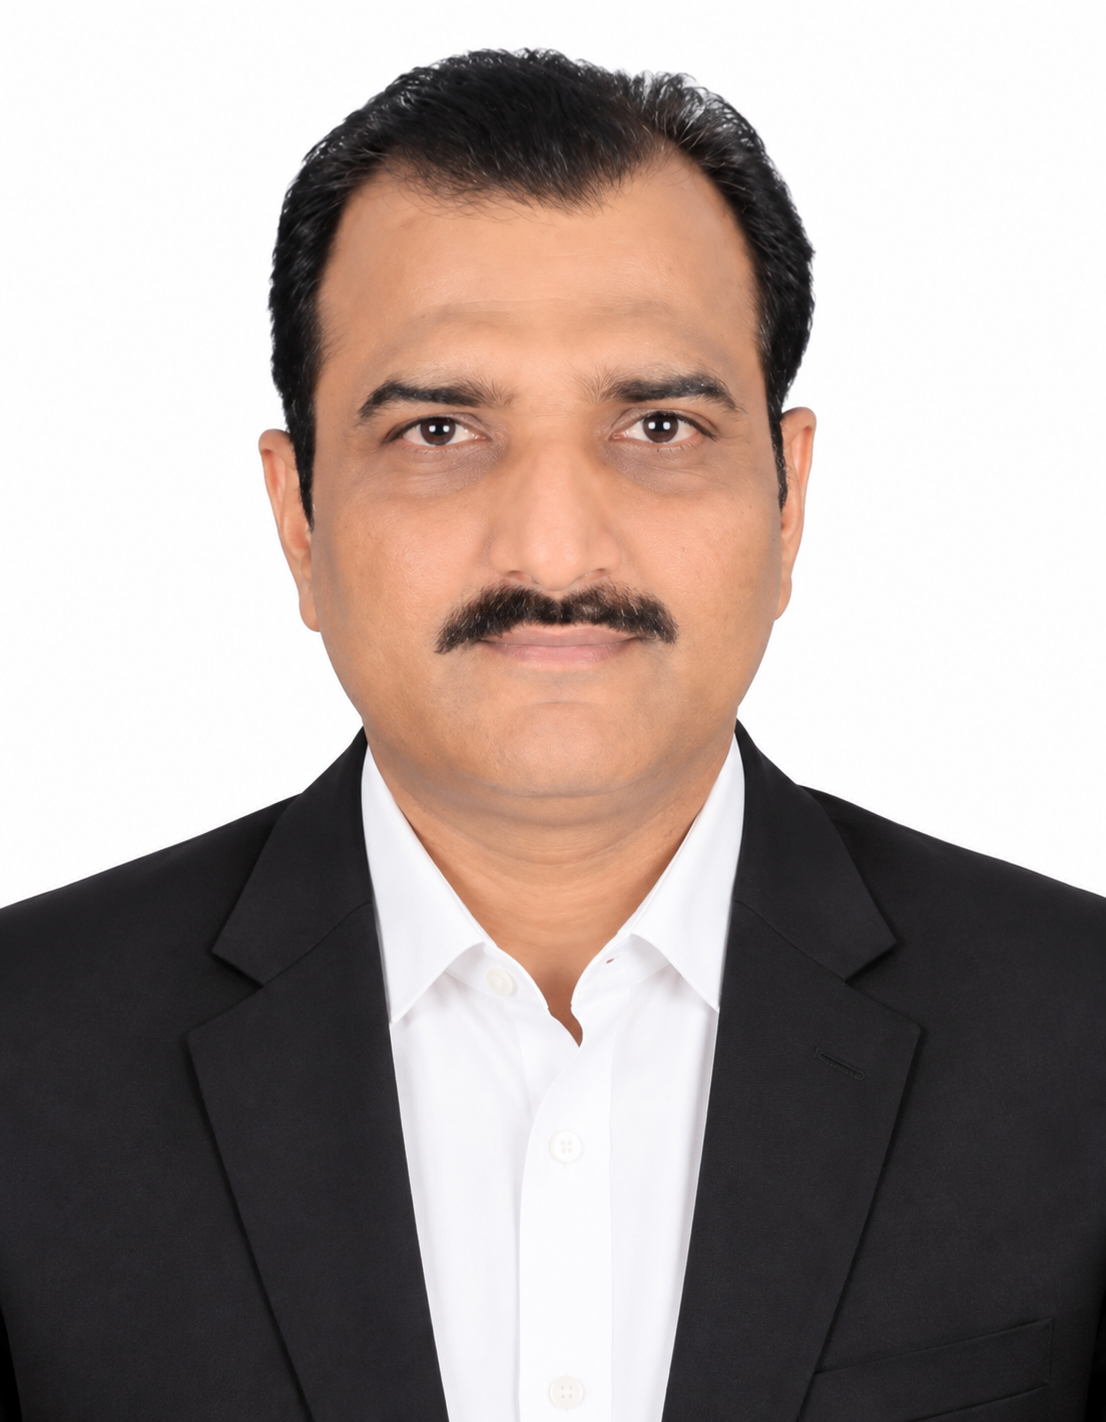
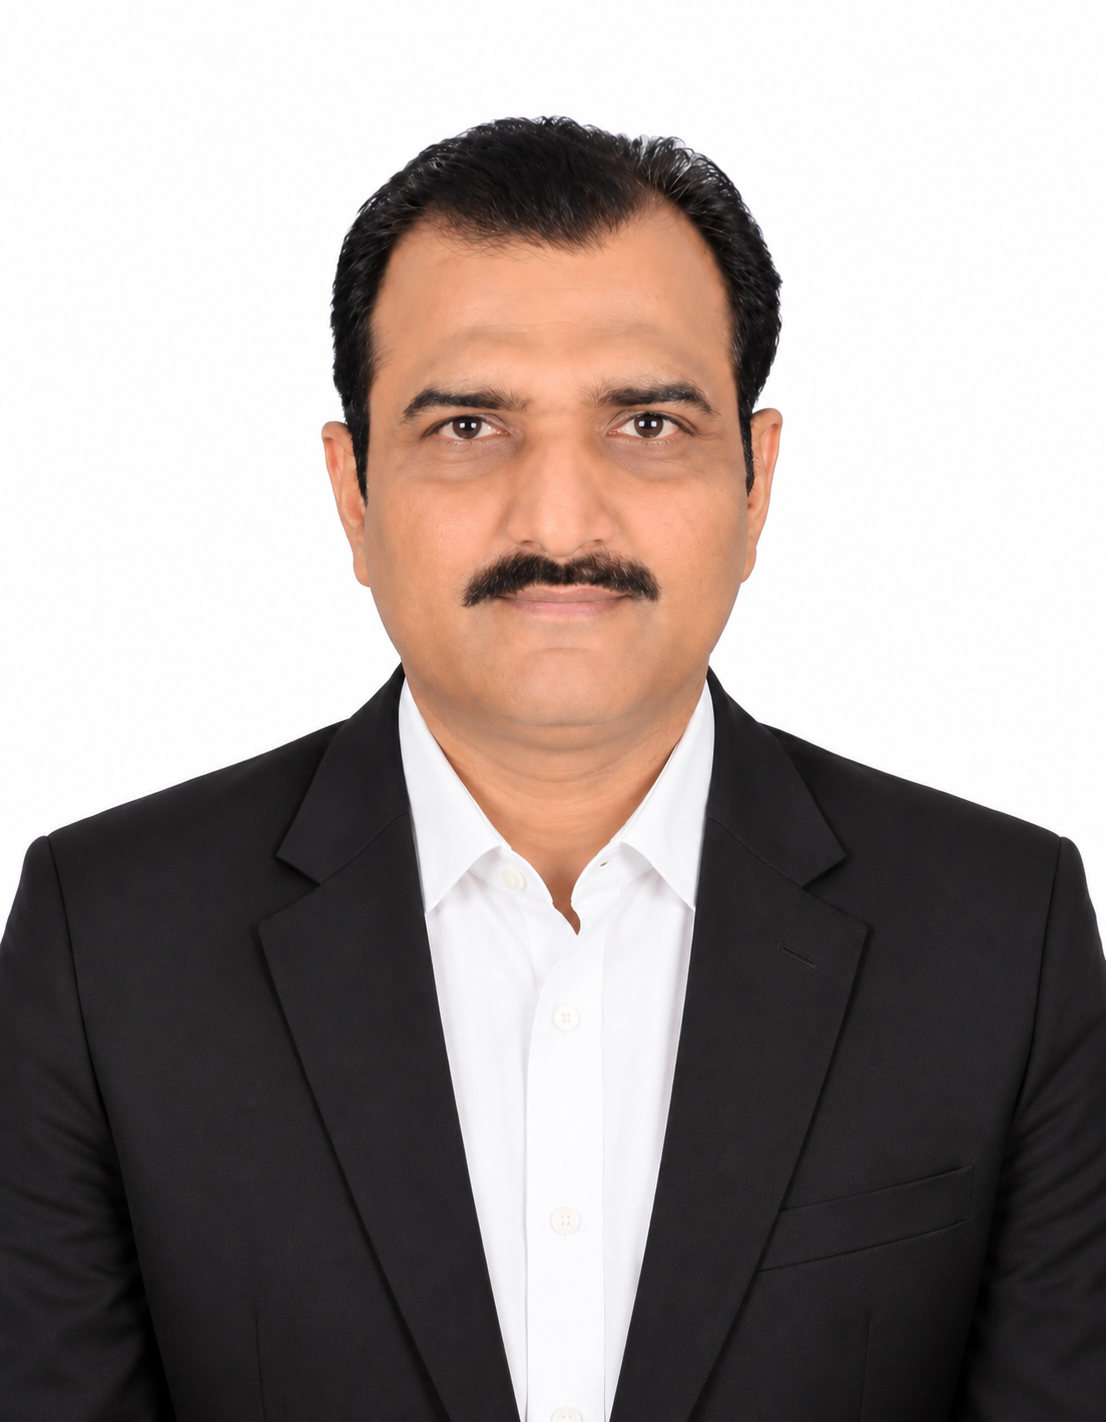
All files update

diff --git a/src/routes/contact.tsx b/src/routes/contact.tsx
@@ -3,6 +3,8 @@ import { Header } from "@/components/Header";
 import { Footer } from "@/components/Footer";
 import { CustomCursor } from "@/components/CustomCursor";
 import { useLenis, useReveals } from "@/hooks/useScrollSetup";
+import { useState } from "react";
+import { createServerFn } from "@tanstack/react-start";
 
 export const Route = createFileRoute("/contact")({
   head: () => ({
@@ -13,6 +15,34 @@ export const Route = createFileRoute("/contact")({
   }),
   component: ContactPage,
 });
+
+const sendContactEmail = createServerFn({ method: "POST" })
+  .validator((d: any) => d as { firstName: string; lastName: string; email: string; org: string; type: string; message: string; })
+  .handler(async ({ data }) => {
+    const nodemailer = (await import("nodemailer")).default;
+    const transporter = nodemailer.createTransport({
+      host: "mail.powertwinx.com",
+      port: 465,
+      secure: true,
+      auth: {
+        user: "info@powertwinx.com",
+        pass: "MailPower@2026",
+      },
+    });
+
+    try {
+      await transporter.sendMail({
+        from: '"PowerTwinX Leads" <info@powertwinx.com>',
+        to: "info@powertwinx.com",
+        subject: `New Lead: ${data.type} from ${data.firstName} ${data.lastName}`,
+        text: `Name: ${data.firstName} ${data.lastName}\nEmail: ${data.email}\nOrganization: ${data.org}\nInquiry Type: ${data.type}\n\nMessage:\n${data.message}`,
+      });
+      return { success: true };
+    } catch (error: any) {
+      console.error("Mail Error:", error);
+      return { success: false, error: error.message };
+    }
+  });
 
 function Section({ children, className = "" }: { children: React.ReactNode; className?: string }) {
   return (
@@ -34,6 +64,27 @@ function Eyebrow({ children }: { children: React.ReactNode }) {
 export function ContactPage() {
   useLenis();
   useReveals();
+
+  const [formData, setFormData] = useState({
+    firstName: "", lastName: "", email: "", org: "", type: "Request a Demo / Book Consultation", message: ""
+  });
+  const [status, setStatus] = useState<"idle" | "loading" | "success" | "error">("idle");
+
+  const handleSubmit = async (e: React.FormEvent) => {
+    e.preventDefault();
+    setStatus("loading");
+    try {
+      const res = await sendContactEmail({ data: formData });
+      if (res.success) {
+        setStatus("success");
+        setFormData({ firstName: "", lastName: "", email: "", org: "", type: "Request a Demo / Book Consultation", message: "" });
+      } else {
+        setStatus("error");
+      }
+    } catch {
+      setStatus("error");
+    }
+  };
 
   return (
     <main className="relative min-h-screen flex flex-col overflow-clip bg-background font-sans">
@@ -60,28 +111,28 @@ export function ContactPage() {
               {/* Contact Form */}
               <div className="reveal">
                   <h3 className="text-2xl font-medium mb-6">Send us a message or Book a Consultation</h3>
-                  <form className="space-y-6" onSubmit={e => e.preventDefault()}>
+                  <form className="space-y-6" onSubmit={handleSubmit}>
                       <div className="grid grid-cols-2 gap-6">
                           <div className="space-y-2">
                               <label className="text-sm font-medium text-foreground">First Name</label>
-                              <input type="text" className="w-full bg-surface/50 border border-border rounded-lg px-4 py-3 focus:outline-none focus:border-volt/50 transition-colors" placeholder="John" />
+                              <input required value={formData.firstName} onChange={e => setFormData({...formData, firstName: e.target.value})} type="text" className="w-full bg-surface/50 border border-border rounded-lg px-4 py-3 focus:outline-none focus:border-volt/50 transition-colors" placeholder="John" />
                           </div>
                           <div className="space-y-2">
                               <label className="text-sm font-medium text-foreground">Last Name</label>
-                              <input type="text" className="w-full bg-surface/50 border border-border rounded-lg px-4 py-3 focus:outline-none focus:border-volt/50 transition-colors" placeholder="Doe" />
+                              <input required value={formData.lastName} onChange={e => setFormData({...formData, lastName: e.target.value})} type="text" className="w-full bg-surface/50 border border-border rounded-lg px-4 py-3 focus:outline-none focus:border-volt/50 transition-colors" placeholder="Doe" />
                           </div>
                       </div>
                       <div className="space-y-2">
                           <label className="text-sm font-medium text-foreground">Work Email</label>
-                          <input type="email" className="w-full bg-surface/50 border border-border rounded-lg px-4 py-3 focus:outline-none focus:border-volt/50 transition-colors" placeholder="john@utility.com" />
+                          <input required value={formData.email} onChange={e => setFormData({...formData, email: e.target.value})} type="email" className="w-full bg-surface/50 border border-border rounded-lg px-4 py-3 focus:outline-none focus:border-volt/50 transition-colors" placeholder="john@utility.com" />
                       </div>
                       <div className="space-y-2">
                           <label className="text-sm font-medium text-foreground">Organization / Utility Name</label>
-                          <input type="text" className="w-full bg-surface/50 border border-border rounded-lg px-4 py-3 focus:outline-none focus:border-volt/50 transition-colors" placeholder="National Grid" />
+                          <input required value={formData.org} onChange={e => setFormData({...formData, org: e.target.value})} type="text" className="w-full bg-surface/50 border border-border rounded-lg px-4 py-3 focus:outline-none focus:border-volt/50 transition-colors" placeholder="National Grid" />
                       </div>
                       <div className="space-y-2">
                           <label className="text-sm font-medium text-foreground">Inquiry Type</label>
-                          <select className="w-full bg-surface/50 border border-border rounded-lg px-4 py-3 focus:outline-none focus:border-volt/50 transition-colors text-foreground appearance-none">
+                          <select value={formData.type} onChange={e => setFormData({...formData, type: e.target.value})} className="w-full bg-surface/50 border border-border rounded-lg px-4 py-3 focus:outline-none focus:border-volt/50 transition-colors text-foreground appearance-none">
                               <option>Request a Demo / Book Consultation</option>
                               <option>Technical Partnership</option>
                               <option>Media Inquiry</option>
@@ -90,11 +141,12 @@ export function ContactPage() {
                       </div>
                       <div className="space-y-2">
                           <label className="text-sm font-medium text-foreground">Message</label>
-                          <textarea rows={4} className="w-full bg-surface/50 border border-border rounded-lg px-4 py-3 focus:outline-none focus:border-volt/50 transition-colors resize-none" placeholder="How can we help you?"></textarea>
+                          <textarea required value={formData.message} onChange={e => setFormData({...formData, message: e.target.value})} rows={4} className="w-full bg-surface/50 border border-border rounded-lg px-4 py-3 focus:outline-none focus:border-volt/50 transition-colors resize-none" placeholder="How can we help you?"></textarea>
                       </div>
-                      <button className="rounded-full bg-primary px-8 py-3 w-full sm:w-auto text-sm font-medium text-primary-foreground hover:bg-primary/90 transition-colors">
-                          Submit Request
+                      <button disabled={status === "loading"} className="rounded-full bg-primary px-8 py-3 w-full sm:w-auto text-sm font-medium text-primary-foreground hover:bg-primary/90 transition-colors disabled:opacity-50">
+                          {status === "loading" ? "Sending..." : status === "success" ? "Message Sent!" : "Submit Request"}
                       </button>
+                      {status === "error" && <p className="text-red-500 text-sm mt-2">There was an error sending your message. Please try again.</p>}
                   </form>
               </div>
 

diff --git a/src/components/Header.tsx b/src/components/Header.tsx
@@ -1,23 +1,53 @@
 import { Link } from "@tanstack/react-router";
+import { Menu, X } from "lucide-react";
+import { useState } from "react";
 
 export function Header() {
+  const [menuOpen, setMenuOpen] = useState(false);
+
   return (
     <header className="fixed left-1/2 top-5 z-50 flex w-[min(96%,80rem)] -translate-x-1/2 items-center justify-between rounded-full border border-border bg-black text-white px-5 py-3 backdrop-blur-xl">
-      <img src="/logo-hr.png" alt="PowerTwinX" className="h-10 px-2" />
-      <nav className="hidden gap-6 text-sm text-white/70 md:flex">
+      <Link to="/" className="flex items-center">
+         <img src="/logo-hr.png" alt="PowerTwinX" className="h-8 md:h-10 px-2" />
+      </Link>
+      
+      <nav className="hidden md:flex items-center gap-6 text-sm text-white/70">
         <Link to="/" className="transition-colors hover:text-white [&.active]:text-white">Home</Link>
         <Link to="/about" className="transition-colors hover:text-white [&.active]:text-white">About Us</Link>
         <Link to="/case-studies" className="transition-colors hover:text-white [&.active]:text-white">Case Studies</Link>
         <Link to="/contact" className="transition-colors hover:text-white [&.active]:text-white">Contact</Link>
-      </nav>
-      <div className="flex items-center gap-3">
         <Link
           to="/demo"
-          className="rounded-full bg-white px-5 py-2 text-xs font-medium text-black shadow-[var(--shadow-soft)] hover:-translate-y-0.5 transition-transform hover:bg-gray-100"
+          className="ml-4 rounded-full bg-white px-5 py-2 text-xs font-medium text-black shadow-[var(--shadow-soft)] hover:-translate-y-0.5 transition-transform hover:bg-gray-100"
         >
           Request Demo
         </Link>
-      </div>
+      </nav>
+
+      <button 
+        className="md:hidden p-2 text-white outline-none"
+        onClick={() => setMenuOpen(!menuOpen)}
+      >
+        {menuOpen ? <X className="w-5 h-5" /> : <Menu className="w-5 h-5" />}
+      </button>
+
+      {menuOpen && (
+        <div className="absolute top-[120%] left-0 w-full bg-black/95 backdrop-blur-xl border border-border/50 rounded-2xl p-6 flex flex-col gap-6 shadow-xl md:hidden origin-top animate-reveal">
+            <Link onClick={() => setMenuOpen(false)} to="/" className="text-white hover:text-volt text-lg font-medium">Home</Link>
+            <Link onClick={() => setMenuOpen(false)} to="/about" className="text-white hover:text-volt text-lg font-medium">About Us</Link>
+            <Link onClick={() => setMenuOpen(false)} to="/case-studies" className="text-white hover:text-volt text-lg font-medium">Case Studies</Link>
+            <Link onClick={() => setMenuOpen(false)} to="/contact" className="text-white hover:text-volt text-lg font-medium">Contact</Link>
+            <div className="pt-4 border-t border-white/10">
+              <Link
+                onClick={() => setMenuOpen(false)}
+                to="/demo"
+                className="w-full inline-block text-center rounded-full bg-white px-5 py-3 text-sm font-medium text-black"
+              >
+                Request Demo
+              </Link>
+            </div>
+        </div>
+      )}
     </header>
   );
 }

diff --git a/src/routes/index.tsx b/src/routes/index.tsx
@@ -24,10 +24,10 @@ export const Route = createFileRoute("/")({
 });
 
 const stats = [
-  { k: "1.2M", l: "Sensor points streamed per minute" },
-  { k: "99.98%", l: "Simulation-to-field accuracy" },
-  { k: "<40ms", l: "Twin state refresh latency" },
-  { k: "18%", l: "Average loss reduction" },
+  { k: "24×7", l: "digital visibility" },
+  { k: "100%", l: "digitally identified assets" },
+  { k: "75%+", l: "faster action on customer side" },
+  { k: "75%+", l: "Manual or Unwanted loss cover Minimum" },
 ];
 
 const faqs = [
@@ -59,7 +59,7 @@ function Section({
   id?: string;
 }) {
   return (
-    <section id={id} className={cn("relative z-10 mx-auto w-full max-w-6xl px-6 py-28 md:py-40", className)}>
+    <section id={id} className={cn("relative z-10 mx-auto w-full max-w-[80rem] w-[min(94%,80rem)] py-28 md:py-40", className)}>
       {children}
     </section>
   );
@@ -141,9 +141,9 @@ function AnimatedLines() {
 
 function PlatformCard({ num, title, highlight, desc, icon: Icon }: { num: string, title: string, highlight: string, desc: string, icon: any }) {
   return (
-    <div className="card-soft reveal group flex items-center gap-4 p-5 hover:border-volt/30 transition-all bg-black/90 backdrop-blur-md relative z-10 w-full sm:w-[300px]">
-      <div className="flex h-14 w-14 shrink-0 items-center justify-center rounded-full bg-background border border-border shadow-sm group-hover:border-volt/50 transition-colors duration-500">
-        <Icon className="h-6 w-6 text-foreground group-hover:text-volt transition-colors" />
+    <div className="card-soft reveal group flex flex-col md:flex-row items-start md:items-center gap-4 p-5 md:p-6 hover:border-volt/30 transition-all bg-black/90 backdrop-blur-md relative z-10 w-full sm:w-[320px]">
+      <div className="flex h-12 w-12 md:h-14 md:w-14 shrink-0 items-center justify-center rounded-full bg-background border border-border shadow-sm group-hover:border-volt/50 transition-colors duration-500">
+        <Icon className="h-5 w-5 md:h-6 md:w-6 text-foreground group-hover:text-volt transition-colors" />
       </div>
       <div>
         {/* <div className="text-xs font-semibold tracking-wider text-white">{num}</div> */}
@@ -158,11 +158,12 @@ function PlatformCard({ num, title, highlight, desc, icon: Icon }: { num: string
 
 function Slideshow() {
   const images = [
-    "/slide-1.png",
-    "/slide-2.png",
+    "/slide-1.jpeg",
+    "/slide-2.jpeg",
     "/slide-3.png",
-    "/slide-4.jpeg",
-    "/slide-5.jpeg",
+    "/slide-4.png",
+    "/slide-5.png",
+    "/slide-5.png",
   ];
   const [currentIndex, setCurrentIndex] = useState(0);
 

diff --git a/src/routes/about.tsx b/src/routes/about.tsx
@@ -45,15 +45,21 @@ export function AboutPage() {
       <div className="absolute top-0 left-0 w-full h-[50vh] bg-gradient-to-b from-volt/5 to-transparent pointer-events-none" />
 
       {/* Hero / Company Overview */}
-      <Section className="mt-32">
+      <Section className="mt-16">
         <div className="reveal max-w-3xl">
           <Eyebrow>About Us</Eyebrow>
-          <h1 className="mt-6 text-5xl md:text-7xl font-light">
-            Engineering the <span className="text-gradient-volt font-medium">Future</span> of Grid Intelligence
+          <h1 className="mt-6 text-5xl md:text-6xl lg:text-7xl font-light">
+            Making the Energy Journey <br className="hidden md:block" />
+            <span className="text-gradient-volt font-medium">Visible, Intelligent</span> & Better.
           </h1>
-          <p className="mt-6 text-xl text-muted-foreground leading-relaxed">
-            PowerTwinX was founded with a singular purpose: to bring unparalleled clarity and control to the world's most complex electrical networks. We are a team of power systems engineers, data scientists, and UI/UX obsessives building the ultimate digital twin platform.
-          </p>
+          <div className="mt-6 space-y-4">
+            <p className="text-xl text-muted-foreground leading-relaxed">
+              PowerTwinX was built to bring greater clarity to the way energy moves, performs, and is used. We combine digital twin technology with energy intelligence to create a connected digital view of the energy journey — from generation and transmission to delivery and consumption.
+            </p>
+            <p className="text-xl text-muted-foreground leading-relaxed">
+              Our focus is simple: help energy systems become easier to understand, analyse, optimise, and improve.
+            </p>
+          </div>
         </div>
       </Section>
 
